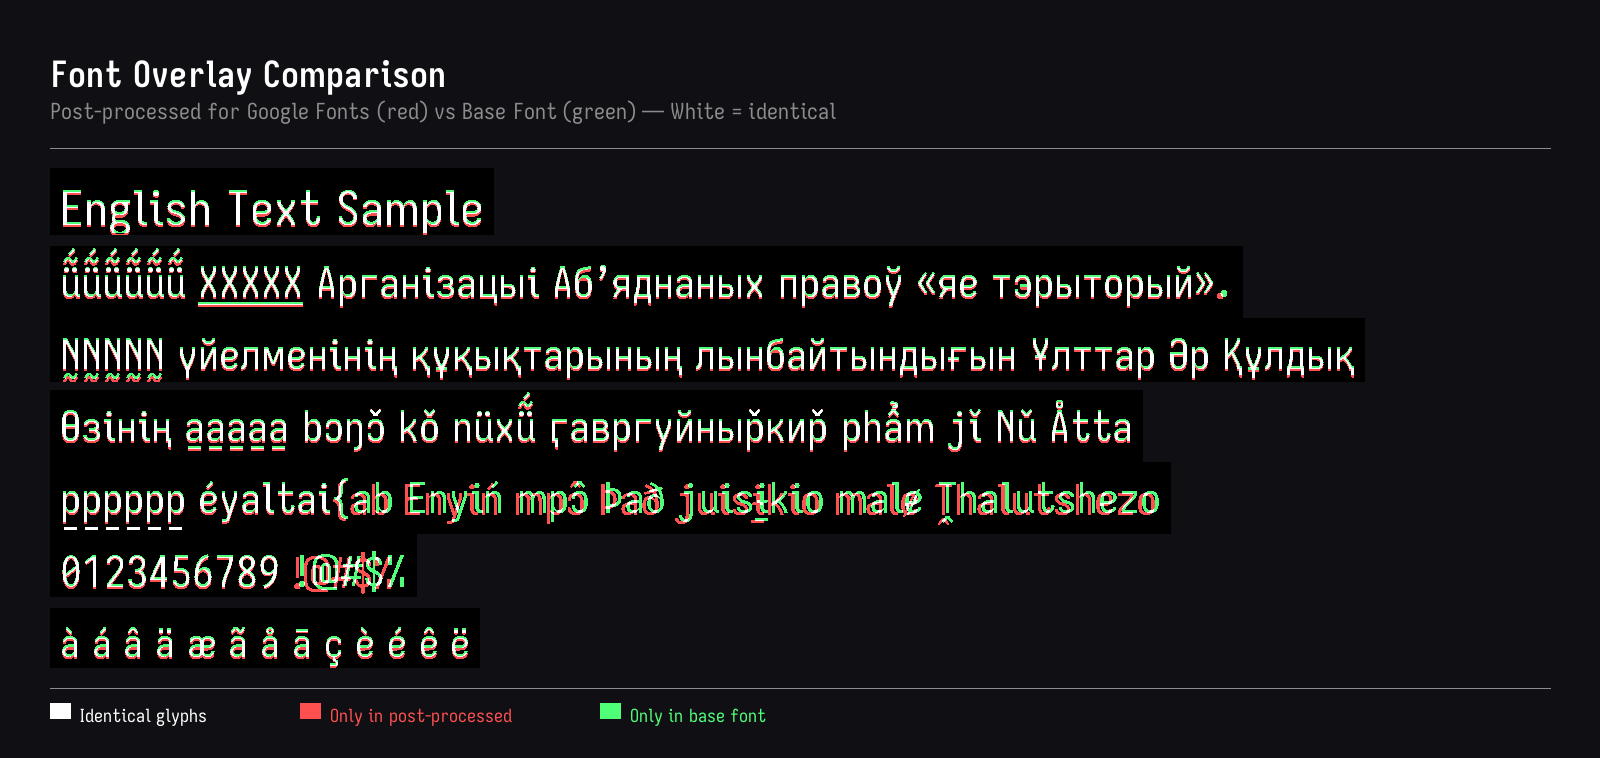
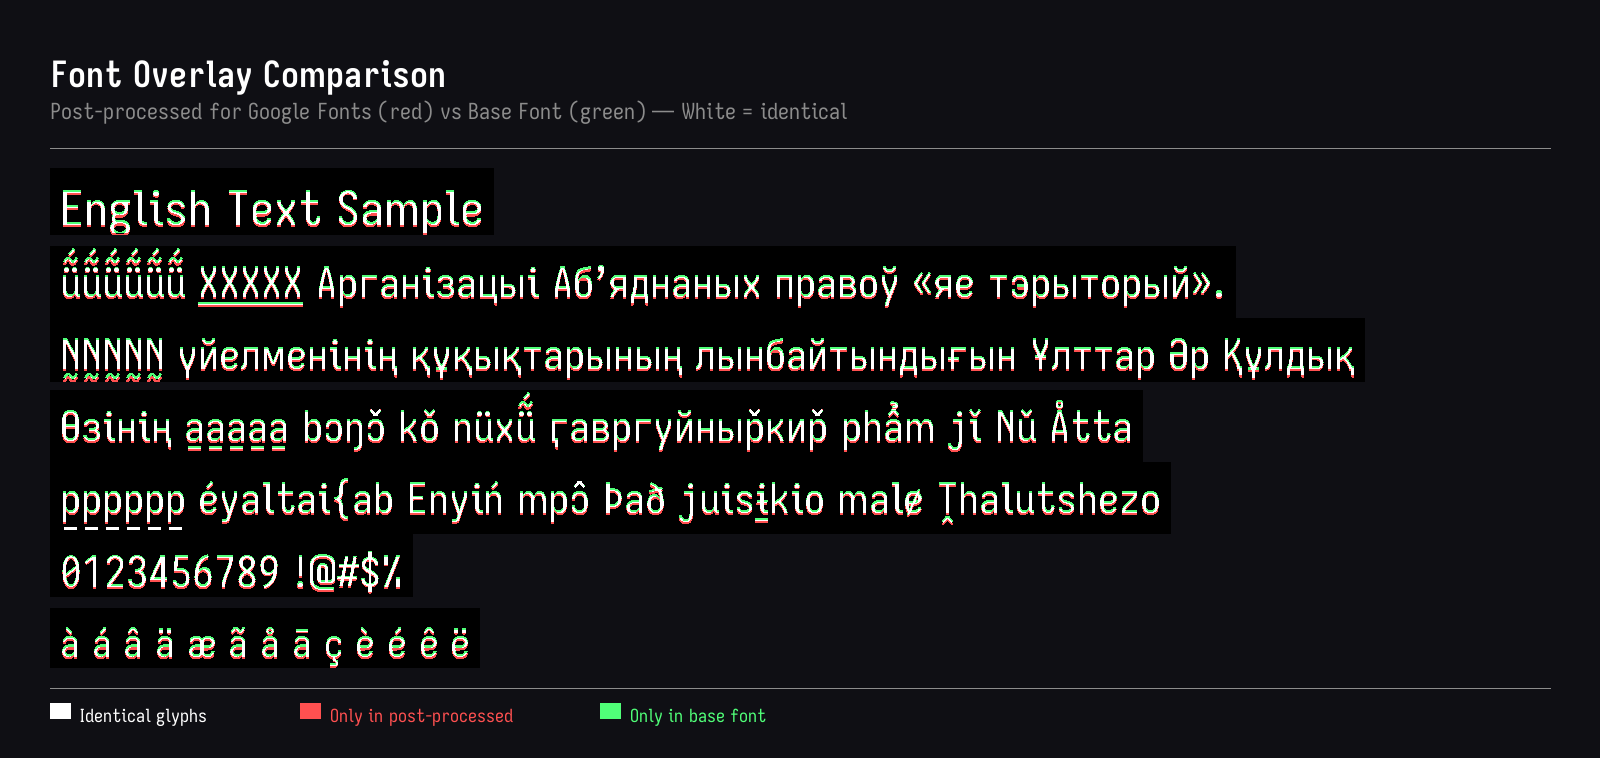
reduce punctuation spacing in base font

diff --git a/scripts/fix_fonts.py b/scripts/fix_fonts.py
@@ -886,23 +886,6 @@ def drop_glyph_names(font: TTFont) -> bool:
     return True
 
 
-def fix_punctuation_spacing(font: TTFont) -> bool:
-    """Reduce spacing around narrow punctuation while preserving wide characters.
-
-    TODO: Implement this properly without causing glyph rotation/corruption.
-    Currently disabled because it causes issues with composite glyphs that use 
-    point-matched attachment (like the semicolon).
-    """
-    # Skip monospace fonts - only apply to quasi-proportional variant
-    name_table = font.get("name")
-    if name_table:
-        family_name = name_table.getName(1, 3, 1, 0x409)
-        if family_name and "Mono" in family_name.toUnicode():
-            return False
-
-    return False
-
-
 
 def fix_gdef_mark_classes(font: TTFont) -> bool:
     """Ensure combining marks are classified as marks in GDEF."""
@@ -1184,7 +1167,6 @@ def post_process_font(font_path: Path, output_path: Optional[Path] = None) -> bo
             (fix_panose_monospace, "panose_monospace"),
             (fix_license_entries, "license_entries"),
             (fix_style_bits, "style_bits"),
-            (fix_punctuation_spacing, "punctuation_spacing"),
             (drop_glyph_names, "stripped_glyph_names"),
             (fix_broken_mark_anchors, "fixed_broken_mark_anchors"),
             (add_fallback_mark_anchors, "fallback_mark_anchors"),
